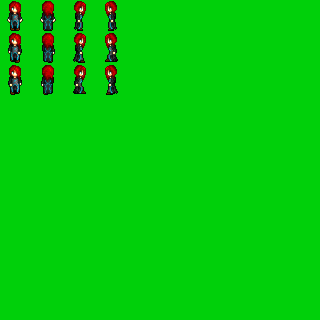
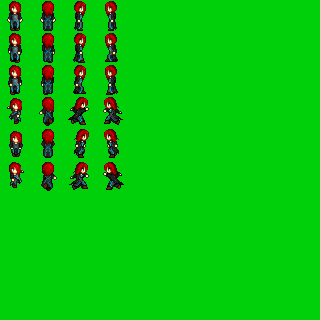
Mejoras en la animación.

diff --git a/src/entes/creaturas/Jugador.java b/src/entes/creaturas/Jugador.java
@@ -61,6 +61,7 @@ public class Jugador extends Creatura {
         } else {
             enMovimiento = false;
         }
+        int resto = animacion % 40;
         if (direccion == 'n') {
             sprite = Sprite.POSTERIOR_QUIETO;
             if(enMovimiento){
@@ -84,21 +85,29 @@ public class Jugador extends Creatura {
         if (direccion == 'e') {
             sprite = Sprite.DERECHA_QUIETO;
             if(enMovimiento){
-            if (animacion % 28 > 14) {
-                sprite = Sprite.DERECHA_MOVIENDOSE1;
-            } else {
-                sprite = Sprite.DERECHA_MOVIENDOSE2;
-            }
+                if(resto > 10 && resto <= 20){
+                    sprite = Sprite.DERECHA_MOVIENDOSE1;
+                } else if (resto > 20 && resto <= 30){
+                    sprite = Sprite.DERECHA_QUIETO;
+                } else if(resto >30){
+                    sprite = Sprite.DERECHA_MOVIENDOSE2;
+                } else{
+                    sprite = sprite = Sprite.DERECHA_QUIETO;
+                }
             }
         }
         if (direccion == 'o') {
             sprite = Sprite.IZQUIERDA_QUIETO;
             if(enMovimiento){
-                if (animacion % 28 > 14) {
-                sprite = Sprite.IZQUIERDA_MOVIENDOSE1;
-            } else {
-                sprite = Sprite.IZQUIERDA_MOVIENDOSE2;
-            }
+                if(resto > 10 && resto <= 20){
+                    sprite = Sprite.IZQUIERDA_MOVIENDOSE1;
+                } else if (resto > 20 && resto <= 30){
+                    sprite = Sprite.IZQUIERDA_QUIETO;
+                } else if(resto >30){
+                    sprite = Sprite.IZQUIERDA_MOVIENDOSE2;
+                } else{
+                    sprite = sprite = Sprite.IZQUIERDA_QUIETO;
+                }
             }
         }
     }
